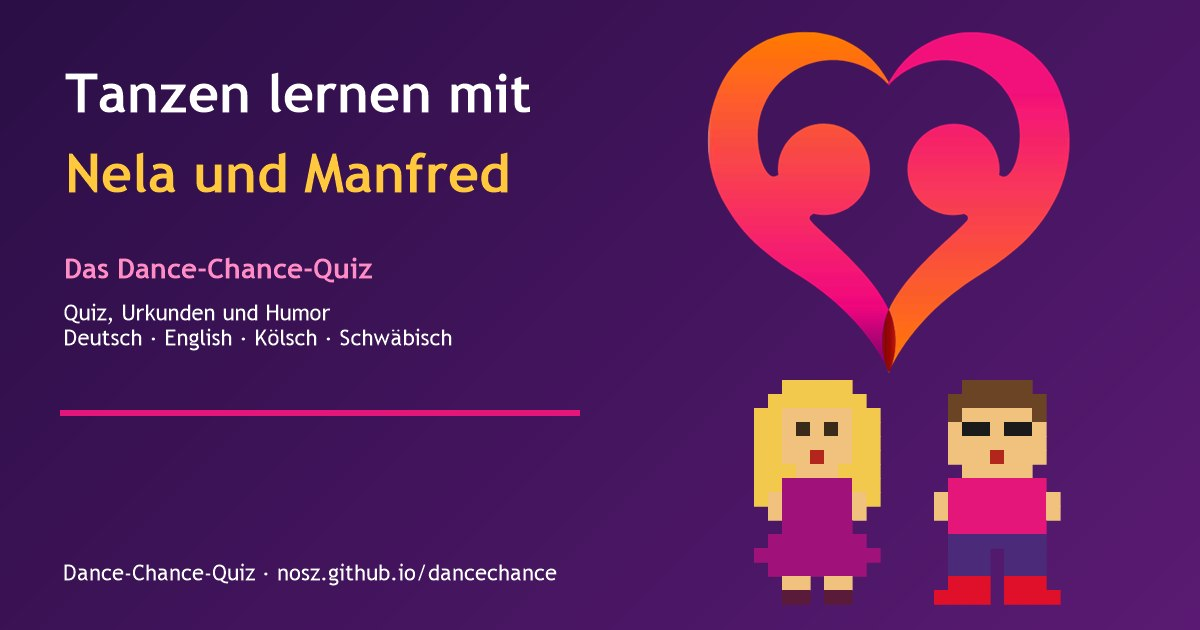
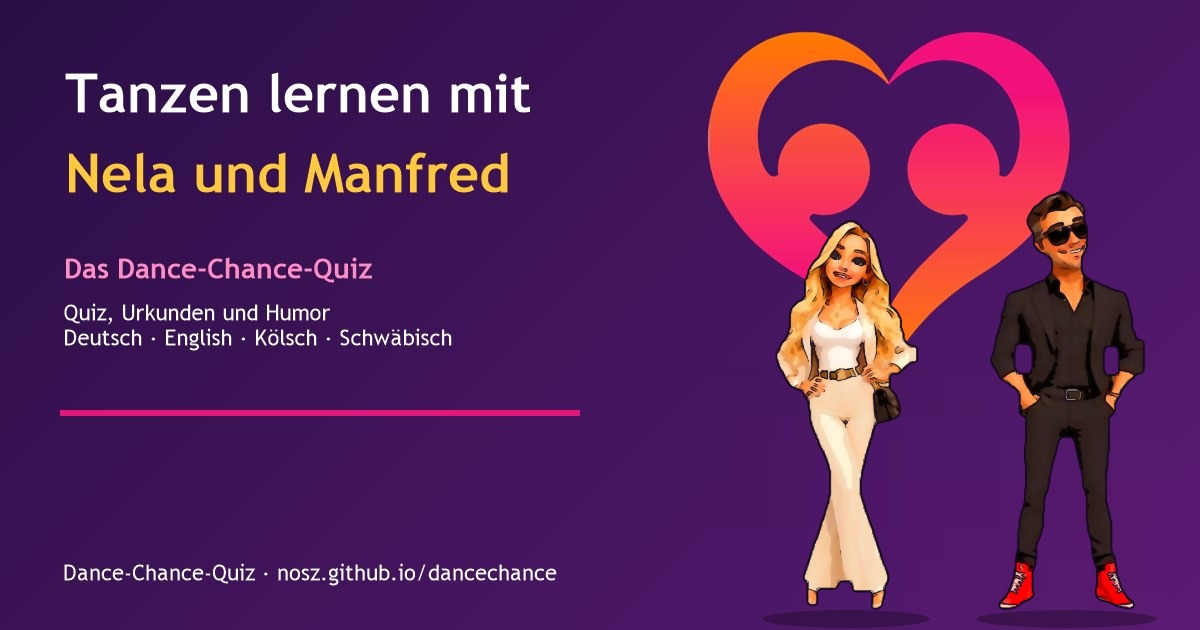
Add files via upload

Changed region(s): [[0.6167, 0.3016, 0.9558, 0.9952]]

diff --git a/index.html b/index.html
@@ -23,17 +23,17 @@
 <meta property="og:title" content="Tanzen lernen mit Nela und Manfred: das Dance-Chance-Quiz">
 <meta property="og:description" content="DE: 8 Tanzstunden mit Manfred und Nela: Discofox, Discowalzer, Latino, Breakdance, Quiz und Urkunden. EN: 8 dance lessons with Manfred and Nela: discofox, disco waltz, Latin, breakdance, quiz and certificates. KSH: 8 Danzstunde met däm Manfred un de Nela, Quiz un Urkunde. SWG: 8 Tanzstunde mit em Manfred ond dr Nela, Quiz ond Urkunde.">
 <meta property="og:url" content="https://nosz.github.io/dancechance/">
-<meta property="og:image" content="https://nosz.github.io/dancechance/dancechance_vorschau.jpg?v=1">
+<meta property="og:image" content="https://nosz.github.io/dancechance/dancechance_vorschau.jpg?v=2">
 <meta property="og:image:type" content="image/jpeg">
 <meta property="og:image:width" content="1200">
 <meta property="og:image:height" content="630">
-<meta property="og:image:alt" content="Tanzen lernen mit Nela und Manfred: zwei kleine Pixel-Tanzlehrer vor einem Herz. Learn to dance with Nela and Manfred. Danze lihre mit de Nela un dem Manfred. Tanze lerne mit dr Nela ond am Manfred.">
+<meta property="og:image:alt" content="Tanzen lernen mit Nela und Manfred: zwei Comic-Tanzlehrer vor einem Herz. Learn to dance with Nela and Manfred. Danze lihre mit de Nela un dem Manfred. Tanze lerne mit dr Nela ond am Manfred.">
 <meta property="og:locale" content="de_DE">
 <meta property="og:locale:alternate" content="en_GB">
 <meta name="twitter:card" content="summary_large_image">
 <meta name="twitter:title" content="Tanzen lernen mit Nela und Manfred: das Dance-Chance-Quiz">
 <meta name="twitter:description" content="DE: 8 Tanzstunden mit Manfred und Nela: Discofox, Discowalzer, Latino, Breakdance, Quiz und Urkunden. EN: 8 dance lessons with Manfred and Nela: discofox, disco waltz, Latin, breakdance, quiz and certificates. KSH: 8 Danzstunde met däm Manfred un de Nela, Quiz un Urkunde. SWG: 8 Tanzstunde mit em Manfred ond dr Nela, Quiz ond Urkunde.">
-<meta name="twitter:image" content="https://nosz.github.io/dancechance/dancechance_vorschau.jpg?v=1"><style>
+<meta name="twitter:image" content="https://nosz.github.io/dancechance/dancechance_vorschau.jpg?v=2"><style>
 :root{
   --pri:#e5167a;--pri-d:#c4106a;--pri-l:#fde6f1;--herobg:linear-gradient(135deg,#ffe0ee,#ffe9cc);
   --bg:#f8f1e7;--card:#fffdf8;--ink:#241238;--mute:#5b4d68;--line:#eadfd2;
@@ -449,7 +449,7 @@ a.credit:focus-visible{outline:3px solid #fff;outline-offset:4px;box-shadow:0 0 
 <div id="live" class="sr" aria-live="polite"></div>
 <script>
 "use strict";
-const VERSION = "1.5.0", STAND = "25.10.2026";
+const VERSION = "1.5.2", STAND = "25.10.2026";
 const LANGS = [["de","DE","Deutsch"],["en","EN","English"],["ksh","KÖLSCH","Kölsch"],["swg","SCHWÄB","Schwäbisch"]];
 const KEY = "dancechance_quiz_v1";
 const SHARE_URL = "https://nosz.github.io/dancechance/";
@@ -1746,7 +1746,7 @@ if("serviceWorker" in navigator && /^https?:$/.test(location.protocol)){
   navigator.serviceWorker.addEventListener("controllerchange", () => { if(!hadController){ hadController = true; return; } if(reloading) return; reloading = true; location.reload(); });
   window.addEventListener("load", () => {
     const first = !navigator.serviceWorker.controller;
-    navigator.serviceWorker.register("sw.js").then(reg => {
+    navigator.serviceWorker.register("sw.js", {updateViaCache:"none"}).then(reg => {
       const upd = w => snack(t("updT"), t("updB"), () => w.postMessage("SKIP_WAITING"));
       if(reg.waiting && navigator.serviceWorker.controller) upd(reg.waiting);
       reg.addEventListener("updatefound", () => { const w = reg.installing; if(w) w.addEventListener("statechange", () => { if(w.state === "installed"){ if(navigator.serviceWorker.controller) upd(w); else snack(t("offT"), null, null, 4500); } }); });

diff --git a/sw.js b/sw.js
@@ -1,8 +1,8 @@
 /* Dance-Chance-Quiz - Service Worker. VERSION muss mit VERSION in index.html uebereinstimmen. */
-const VERSION = "1.5.0";
+const VERSION = "1.5.2";
 const CACHE = "dancechance-quiz-" + VERSION;
 const CORE = ["./", "index.html", "manifest.webmanifest"];
-const OPTIONAL = ["favicon.png", "apple-touch-icon.png", "icon-192.png", "icon-512.png", "icon-maskable-512.png", "dancechance_vorschau.jpg", "figures/manfred.webp", "figures/nela.webp", ...Array.from({length:7}, (_,i) => `figures/manfred-${i+1}.webp`), ...Array.from({length:7}, (_,i) => `figures/nela-${i+1}.webp`)];
+const OPTIONAL = ["favicon.png", "apple-touch-icon.png", "icon-192.png", "icon-512.png", "icon-maskable-512.png", "dancechance_vorschau.jpg", ...["manfred", "nela", ...Array.from({length:7}, (_,i) => `manfred-${i+1}`), ...Array.from({length:7}, (_,i) => `nela-${i+1}`)].map(n => `figures/${n}.webp?v=${VERSION}`)];
 self.addEventListener("install", e => { e.waitUntil(caches.open(CACHE).then(c => c.addAll(CORE.map(u => new Request(u, {cache:"reload"}))).then(() => Promise.allSettled(OPTIONAL.map(u => c.add(new Request(u, {cache:"reload"}))))))); });
 self.addEventListener("activate", e => { e.waitUntil(caches.keys().then(k => Promise.all(k.filter(n => n.startsWith("dancechance-quiz-") && n !== CACHE).map(n => caches.delete(n)))).then(() => self.clients.claim())); });
 self.addEventListener("message", e => { if(e.data === "SKIP_WAITING") self.skipWaiting(); });
@@ -10,11 +10,15 @@ const timeout = (p, ms) => new Promise((res, rej) => { const t = setTimeout(() =
 self.addEventListener("fetch", e => {
   const r = e.request; if(r.method !== "GET") return; const u = new URL(r.url); if(u.origin !== location.origin) return;
   if(r.mode === "navigate"){
-    e.respondWith(timeout(fetch(r), 4000).then(res => { const cp = res.clone(); caches.open(CACHE).then(c => c.put("index.html", cp)); return res; }).catch(() => caches.match("index.html", {ignoreSearch:true}).then(x => x || caches.match("./"))));
+    e.respondWith(timeout(fetch(r, {cache:"no-cache"}), 4000).then(res => { const cp = res.clone(); caches.open(CACHE).then(c => c.put("index.html", cp)); return res; }).catch(() => caches.match("index.html", {ignoreSearch:true}).then(x => x || caches.match("./"))));
+    return;
+  }
+  if(u.pathname.includes("/figures/")){ // Figuren: nur exakter Treffer samt ?v=VERSION, sonst frisch vom Server (nie ein altes Bild einer anderen Version)
+    e.respondWith(caches.match(r).then(hit => hit || fetch(r, {cache:"no-cache"}).then(res => { if(res && res.ok){ const cp = res.clone(); caches.open(CACHE).then(c => c.put(r, cp)); } return res; }).catch(() => caches.match(r, {ignoreSearch:true}))));
     return;
   }
   e.respondWith(caches.match(r, {ignoreSearch:true}).then(hit => {
-    const net = fetch(r).then(res => { if(res && res.ok){ const cp = res.clone(); caches.open(CACHE).then(c => c.put(r, cp)); } return res; }).catch(() => hit);
+    const net = fetch(r, {cache:"no-cache"}).then(res => { if(res && res.ok){ const cp = res.clone(); caches.open(CACHE).then(c => c.put(r, cp)); } return res; }).catch(() => hit);
     return hit || net;
   }));
 });
